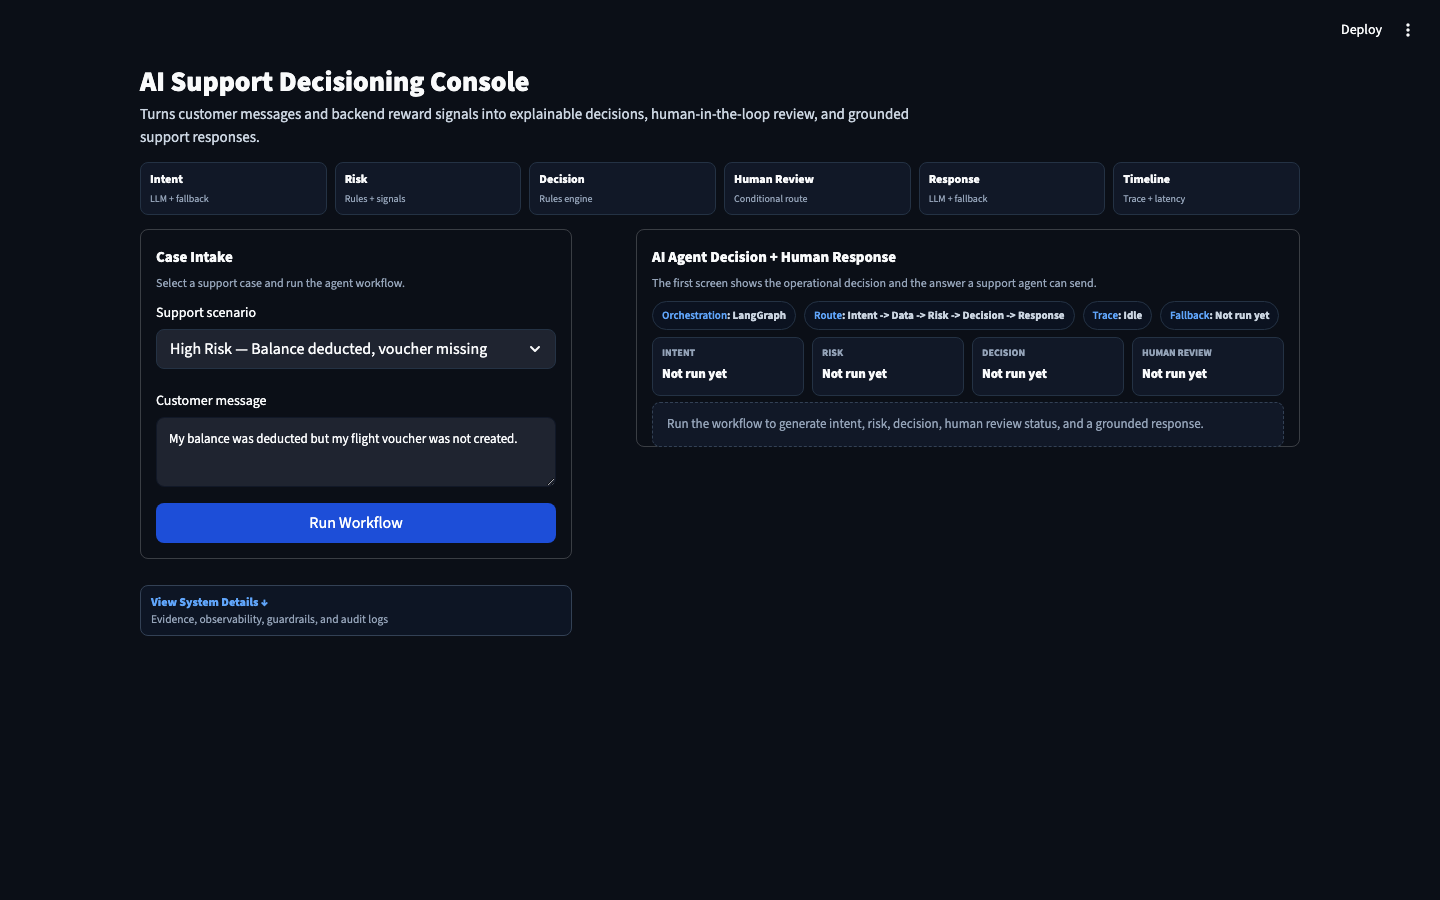
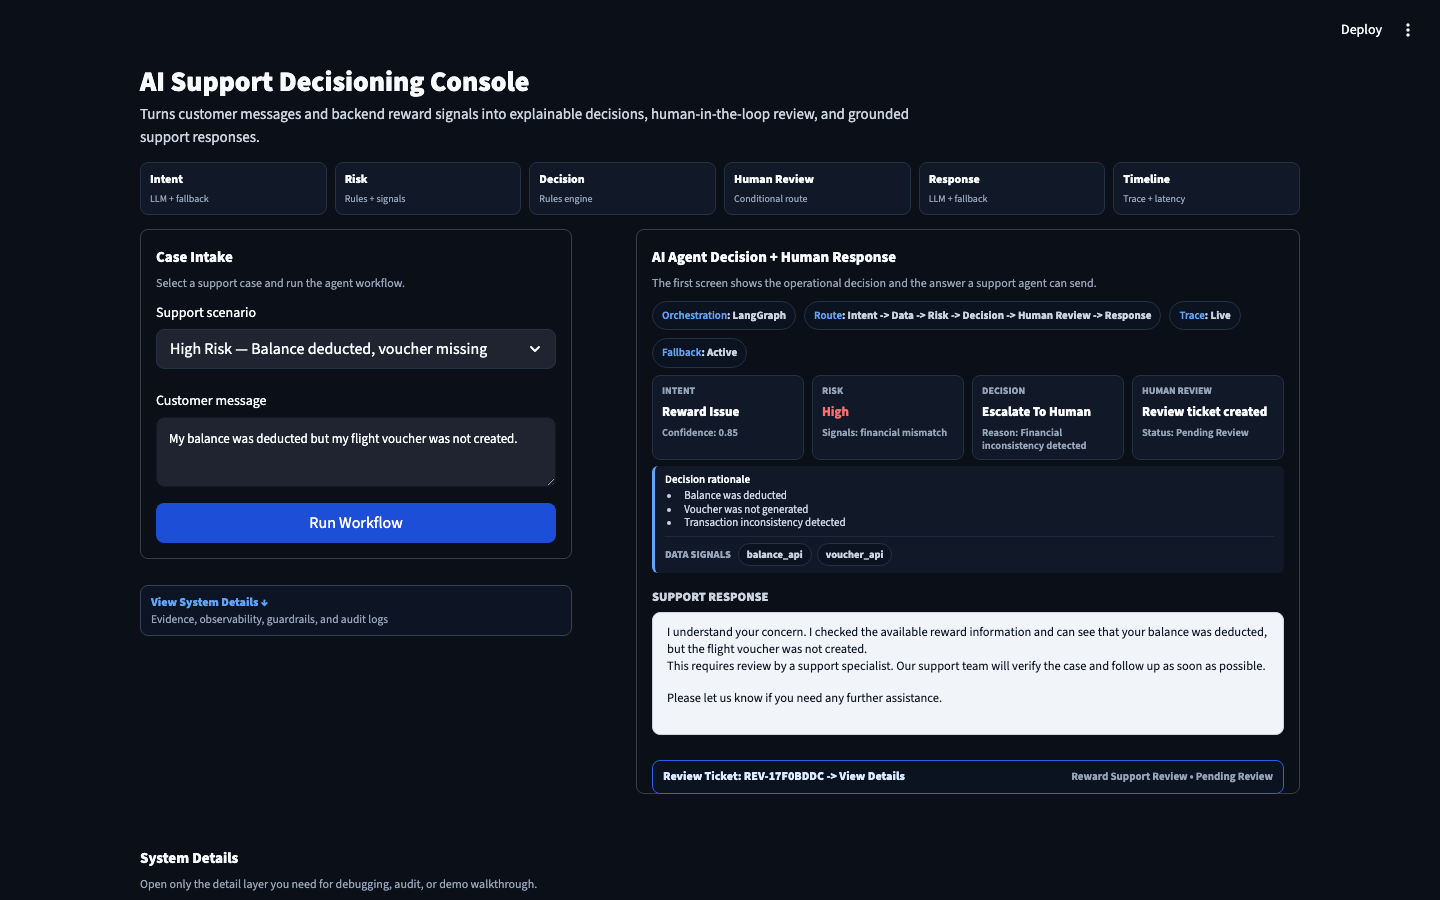
Polish final decisioning UI copy

diff --git a/tests/e2e/reward-support.spec.ts b/tests/e2e/reward-support.spec.ts
@@ -21,7 +21,7 @@ test.describe('AI Support Triage Console', () => {
       'balance api, voucher api',
       'balance deducted, voucher missing',
       'pending_review',
-      'reward_support_review',
+      'Reward Support Review',
     ]);
     await app.expectResponseFacts([
       'balance was deducted',

diff --git a/app/styles/global_styles.py b/app/styles/global_styles.py
@@ -196,11 +196,11 @@ def load_global_styles():
         }
 
         .response-card {
-            background: #F8FAFC;
+            background: #F1F5F9;
             color: #111827;
             padding: 11px 14px;
             border-radius: 8px;
-            border: 1px solid #E5E7EB;
+            border: 1px solid #CBD5E1;
             font-size: 12.5px;
             line-height: 1.34;
             width: 100%;
@@ -210,10 +210,11 @@ def load_global_styles():
 
         .response-label {
             color: #CBD5E1;
-            font-size: 11px;
+            font-size: 12.5px;
             font-weight: 850;
             text-transform: uppercase;
-            margin: 6px 0 4px 0;
+            margin: 8px 0 5px 0;
+            letter-spacing: 0;
         }
 
         .empty-response {
@@ -221,9 +222,11 @@ def load_global_styles():
             border: 1px dashed #334155;
             border-radius: 8px;
             color: #94A3B8;
-            padding: 12px 14px;
-            font-size: 13px;
-            line-height: 1.45;
+            box-sizing: border-box;
+            margin: 0;
+            padding: 9px 12px;
+            font-size: 12.5px;
+            line-height: 1.3;
         }
 
         .timeline {
@@ -408,20 +411,21 @@ def load_global_styles():
             display: flex;
             align-items: center;
             justify-content: space-between;
-            gap: 10px;
+            gap: 12px;
             background: #0B1220;
             border: 1px solid #2563EB;
             border-radius: 8px;
             color: #DBEAFE;
-            font-size: 11.5px;
+            font-size: 12px;
             font-weight: 850;
-            padding: 6px 9px;
-            margin-top: 7px;
+            line-height: 1.3;
+            padding: 8px 10px;
+            margin-top: 9px;
         }
 
         .review-ticket-link small {
             color: #94A3B8;
-            font-size: 10.5px;
+            font-size: 11px;
             font-weight: 700;
             white-space: nowrap;
         }

diff --git a/app/main.py b/app/main.py
@@ -492,11 +492,12 @@ def render_review_ticket_link(result: dict) -> None:
     if not ticket:
         return
 
+    queue_label = format_value(ticket["assigned_queue"])
     st.markdown(
         (
             '<div class="review-ticket-link">'
-            f'<span>Review ticket: {ticket["ticket_id"]} -> View ticket</span>'
-            f'<small>{ticket["assigned_queue"]} &bull; {format_value(ticket["status"])}</small>'
+            f'<span>Review Ticket: {ticket["ticket_id"]} -> View Details</span>'
+            f'<small>{queue_label} &bull; {format_value(ticket["status"])}</small>'
             "</div>"
         ),
         unsafe_allow_html=True,
@@ -592,12 +593,14 @@ def render_agent_output(result: dict | None) -> None:
             ("Human Review", human_review_value, human_review_secondary, ""),
         ]
         summary_html = "\n".join(
-            (
-                '<div class="summary-item">'
-                f'<div class="summary-label">{label}</div>'
-                f'<div class="summary-value {class_name}">{value}</div>'
-                f'<div class="summary-secondary">{secondary}</div>'
-                "</div>"
+            "".join(
+                [
+                    '<div class="summary-item">',
+                    f'<div class="summary-label">{label}</div>',
+                    f'<div class="summary-value {class_name}">{value}</div>',
+                    f'<div class="summary-secondary">{secondary}</div>' if secondary else "",
+                    "</div>",
+                ]
             )
             for label, value, secondary, class_name in summary_items
         )
@@ -608,7 +611,7 @@ def render_agent_output(result: dict | None) -> None:
 
             st.markdown(
                 (
-                    '<div class="response-label">Customer-facing response</div>'
+                    '<div class="response-label">Support Response</div>'
                     f'<div class="response-card">{result["response"]}</div>'
                 ),
                 unsafe_allow_html=True,
@@ -618,7 +621,7 @@ def render_agent_output(result: dict | None) -> None:
             st.markdown(
                 (
                     '<div class="empty-response">'
-                    "Run the workflow to generate intent, risk, decision, human review status, and a grounded response."
+                    "Run the workflow to generate a decision and support response."
                     "</div>"
                 ),
                 unsafe_allow_html=True,

diff --git a/README.md b/README.md
@@ -1,4 +1,4 @@
-# AI Support Triage Console
+# AI Support Decisioning Console
 
 Production-style AI workflow for customer support triage in a reward redemption business.
 
@@ -6,7 +6,7 @@ This project is designed as an AI Engineer / Prompt Engineer case study: it show
 
 ## What It Does
 
-![AI Support Triage Console](assets/ai-support-triage-console.png)
+![AI Support Decisioning Console](assets/ai-support-triage-console.png)
 
 The app handles common reward support cases:
 
@@ -24,6 +24,10 @@ Instead of letting the LLM make unsupported decisions, the system separates resp
 | Decision | Rules engine | Select the business action |
 | Response | LLM + fallback templates | Draft a clear customer-facing answer |
 | Human Review | Conditional LangGraph node | Keep sensitive or inconsistent cases in the loop |
+
+The main console is intentionally designed as a decisioning UI, not a chatbot screen. The first view shows the case intake, operational decision summary, decision rationale, backend data signals, a **Support Response** section, and a readable human review ticket bar such as `Review Ticket: REV-XXXX -> View Details`.
+
+Detailed technical evidence stays available below the main workflow through collapsed **System Details** sections for evidence, observability, guardrails, and sanitized audit logs.
 
 ## Why This Is Not Just A Chatbot
 
@@ -45,7 +49,7 @@ flowchart LR
     G -- "no" --> I["Auto/flag path"]
     H --> J["Response Agent<br/>LLM + fallback template"]
     I --> J
-    J --> K["Support agent ready response<br/>audit log + observability"]
+    J --> K["Support Response<br/>audit log + observability"]
 ```
 
 ## Workflow State
@@ -85,6 +89,7 @@ This makes the workflow inspectable, testable, and debuggable.
 - **Semantic assertions over brittle prose checks:** tests validate stable business facts instead of exact LLM wording.
 - **Fallback-first reliability:** the app remains usable when the LLM key is missing or model calls fail.
 - **Auditability as a product feature:** trace ID, risk signals, modes, review tickets, and audit logs are visible in the UI.
+- **Production UI language:** customer drafts are labeled **Support Response**, review tickets use readable labels, and backend details are discoverable without cluttering the main decision panel.
 
 ## Scenarios
 
@@ -208,7 +213,7 @@ In a real support operation, this system would make triage faster, cheaper, and 
 - low-risk voucher status cases can be answered automatically
 - medium-risk campaign issues can be flagged with evidence for ops teams
 - high-risk financial inconsistencies are escalated with a review ticket
-- support agents get a grounded draft response instead of writing from scratch
+- support agents get a grounded **Support Response** instead of writing from scratch
 - managers get auditability around why each decision was made
 
 The adoption path is practical because the system does not require replacing human agents. It reduces repetitive investigation work while keeping policy-sensitive cases in human review.